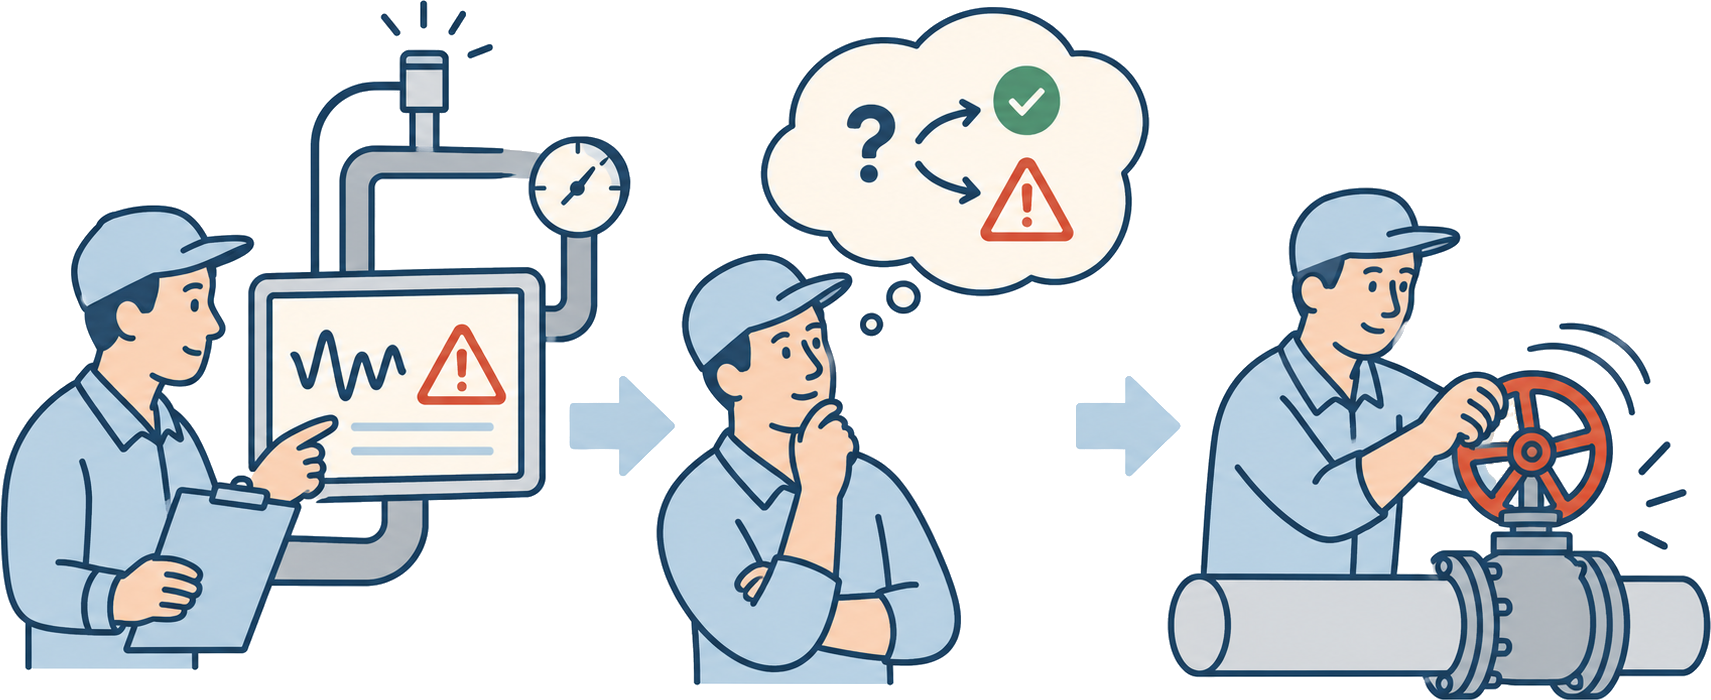
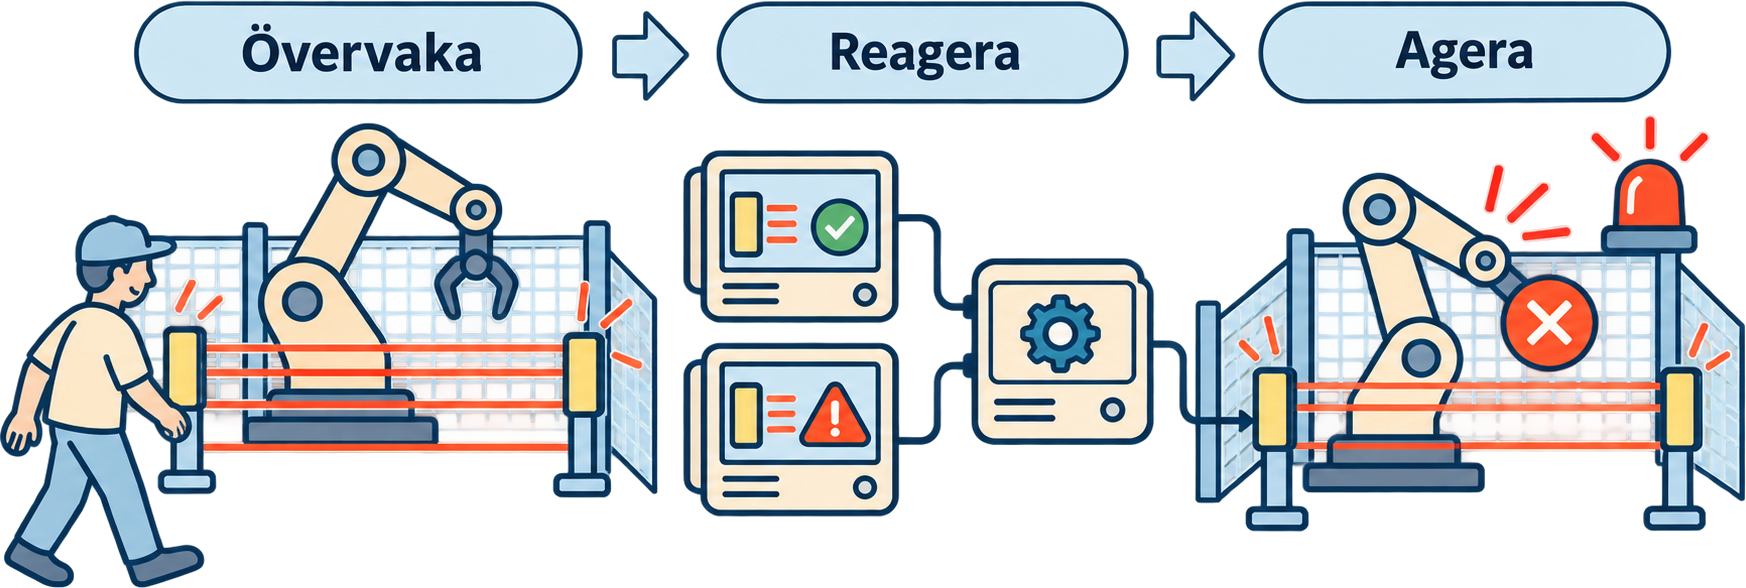
new version of systemsafefty

diff --git a/content/system_safety/common_cause_analysis.md b/content/system_safety/common_cause_analysis.md
@@ -1,65 +1,52 @@
-
 +++
 date = '2026-10-22T20:50:00+02:00'
 draft = true
-title = 'Common Cause Analysis – varför räcker det inte med två datorer?'
+title = 'Common Cause Analysis – behövs två datorer?'
 +++
 
-När man arbetar med säkerhetskritiska system får man ibland höra att man måste ha dubblerad hårdvara. Två separata datorer, och dessutom ska hårdvaran vara utvecklad enligt någon särskild standard.
-Men varför?
+Vi har tidigare pratat om <a href="/system_safety/fault_tree/">felträd</a> och <a href="/system_safety/redundans/">redundans</a>, men hur säkert är egentligen ett system med dubblerade funktioner? Tänk om övervakaren drabbas av samma fel som den som ska övervakas?
 
-Det är en fråga jag har ställt flera gånger genom åren, utan att alltid få något riktigt bra svar.
-Om problemet exempelvis är att två program kan skriva över varandras minne, borde man inte kunna lösa det genom att separera deras minnesområden?
-Man skulle kanske kunna använda olika delar av minnet eller låta hårdvaran skydda programmen från varandra.
-Men svaret har ofta varit detsamma:
+I vår <a href="/system_safety/fault_tree/">felträdsanalys</a> kom vi fram till en säkerhetsarkitektur där vi förbättrade säkerheten genom att lägga till en övervakare.
 
-*Nej, det måste vara två separata datorer.*
+<img src="/images/system_safety/car_system_2.png"
+  alt="Styrsystem med styrning och övervakning"
+  style="float: right; width: 400px; max-width: 100%; margin: 15px 0 15px 20px; border-radius: 8px;">
 
-Fortfarande utan någon riktigt bra förklaring till varför.
+Men tänk om det finns ett konstruktionsfel i en komponent som gör att den under vissa förutsättningar lämnar felaktiga värden?
 
-## Två datorer – men är de verkligen oberoende?
-Tänk dig att vi har ett säkerhetskritiskt system med två datorer som utför samma beräkning.
-Tanken är att om den ena datorn går sönder ska den andra kunna fortsätta fungera.
-Det låter ju bra.
-Men vad händer om båda datorerna kör samma programvara och det finns ett fel i programmet?
-Om samma förutsättningar uppstår kan båda datorerna drabbas av samma fel.
-Eller om båda datorerna läser information från samma givare och givaren börjar lämna felaktiga värden?
-Då hjälper det kanske inte att vi har två datorer. Båda kan fatta samma felaktiga beslut.
-Vi har byggt [redundans](/system_safety/redundans/), men inte nödvändigtvis oberoende.
+Om både styrningen och övervakaren använder samma information kan ett enda fel påverka båda funktionerna.
 
-## Common Cause Analysis
-Det var när jag kom i kontakt med begreppet *Common Cause Analysis*, CCA, som jag började förstå varför det inte alltid räcker med redundans.
-Enkelt uttryckt handlar analysen om att identifiera gemensamma orsaker och beroenden som kan göra att flera delar av ett system fallerar.
-Vi tittar på våra redundanta system och ställer frågor som:
-- Använder de samma programvara?
-- Läser de från samma givare?
-- Delar de strömförsörjning?
-- Kan ett fel i en komponent påverka båda systemen?
-- Finns det yttre händelser som kan slå ut båda samtidigt?
+I felträdet har vi kanske antagit att styrningen och övervakaren fallerar oberoende av varandra. Men om ett enda fel kan påverka båda, blir vår beräknade säkerhet alltför optimistisk.
 
-Det viktiga är att vi inte bara tittar på vad som kan gå fel i varje enskild komponent, utan också vad som kan göra att flera komponenter fallerar tillsammans.
+**Common Cause Analysis**
 
-## Måste vi då alltid ha två separata datorer?
-Nej, inte nödvändigtvis.
-Det beror på vilka fel vi behöver skydda oss mot och vilka säkerhetskrav systemet ska uppfylla.
-Om vi kan visa att två funktioner på samma dator är tillräckligt oberoende för de fel vi behöver hantera, kanske vi inte behöver två fysiska datorer.
-Men om analysen visar att ett fel i exempelvis processorn, minnet eller strömförsörjningen kan slå ut båda funktionerna, då kanske fysisk separation är nödvändig.
-Och även om vi använder två datorer kan vi behöva separera andra saker, exempelvis givare eller strömförsörjning.
-**Det är alltså inte antalet datorer som avgör om lösningen är säker, utan vilka fel arkitekturen faktiskt kan hantera.**
+Det är här Common Cause Analysis (CCA) kommer in, CCA handlar om att identifiera gemensamma felorsaker och beroenden som kan påverka flera funktioner samtidigt.
+Om vi analyserar vårt styrsystem upptäcker vi att styrningen och övervakaren delar flera komponenter:
+- Samma givare i ratten.
+- Samma vinkelgivare vid hjulen.
+- Samma dator och därmed hårdvara och operativsystem.
 
-## Hur säker är tillräckligt säker?
-Mycket inom systemsäkerhet handlar om att kunna visa att de [säkerhetsmekanismer](/system_safety/safety_mechanism/) vi inför verkligen ger det skydd vi förväntar oss.
-Det innebär bland annat att vi måste bedöma sannolikheten för olika fel och vilka konsekvenser de kan få.
-I vissa sammanhang arbetar man med mycket låga sannolikheter, exempelvis 10⁻⁶ eller 10⁻⁹ per timme för vissa typer av farliga fel eller händelser.
-Vilka nivåer som är acceptabla beror på systemet, riskerna och de krav som gäller.
-En Common Cause Analysis hjälper oss att identifiera beroenden som annars kan göra våra beräkningar alltför optimistiska.
-Om vi exempelvis antar att två datorer fallerar oberoende av varandra, men båda kan slås ut av samma fel, då håller inte längre vårt antagande.
+Om exempelvis vinkelgivaren lämnar ett felaktigt värde kan både styrningen och övervakaren använda samma felaktiga information. Då finns risken att övervakaren inte upptäcker felet.
+Vi har alltså en övervakare, men den är inte tillräckligt oberoende för att upptäcka alla fel vi kanske vill skydda oss mot.
+Vad gör vi åt det?
 
-## Analysera istället för att bara följa en regel
-Det är egentligen detta som jag tycker är det intressanta.
-Istället för att kategoriskt säga att ett säkerhetskritiskt system måste ha två separata datorer borde vi börja med att fråga:
-**Vilka fel måste systemet kunna hantera, och hur kan vi visa att vår arkitektur klarar dem?**
-Ibland blir svaret två separata datorer. Ibland krävs ännu mer separation. Och ibland kan vi visa att en enklare lösning är tillräcklig.
+Efter analysen kanske vi kommer fram till att systemet behöver förändras.
+
+Vi skulle exempelvis kunna:
+- Använda en annan typ av givare för övervakningen av rattens vinkel.
+- Montera övervakarens vinkelgivare vid hjulen spegelvänt, så att givarna arbetar i motsatta riktningar.
+- Flytta övervakningen till en egen dator, exempelvis en PLC med annan hårdvara och programvara.
+
+<img src="/images/system_safety/car_system_3.png"
+  alt="Styrsystem med separat övervakning och olika typer av givare"
+  style="float: right; width: 400px; max-width: 100%; margin: 15px 0 15px 20px; border-radius: 8px;">
+På så sätt kan vi minska risken för vissa gemensamma fel. Men även olika givare kan påverkas av samma mekaniska fel eller yttre störningar.
+Men är systemet säkert nu?
+
+Inte nödvändigtvis. Vi behöver fortfarande analysera exempelvis strömförsörjningen och hur ett fel i styrningen faktiskt ska hanteras.
+Och kanske visar analysen att vi inte behöver separera allt. Det beror på vilka fel vi måste kunna hantera och vilka säkerhetskrav som gäller.
+
+<div style="clear: both;"></div>
 
 <div style="border-left: 4px solid #64748b;
             background-color: #f1f5f9;
@@ -68,11 +55,18 @@ Ibland blir svaret två separata datorer. Ibland krävs ännu mer separation. Oc
             border-radius: 6px;
             color: #334155;">
 
-  <strong>Avslutningsvis</strong>
+<strong>Avslutningsvis</strong>
 
-  <p>
-    För mig är det just det som är poängen med säkerhetsanalyser.
-    Att förstå varför vi inför en säkerhetsmekanism, istället för att bara göra som vi alltid har gjort.
-  </p>
+<p>
+Vilka fel måste systemet kunna hantera, och hur kan vi visa att vår <a href="/system_safety/safety_architecture/">säkerhetsarkitektur</a> klarar dem?
+</p>
+
+<p>
+Ibland krävs separata datorer, ibland ännu mer separation och ibland kan en enklare lösning vara tillräcklig.
+</p>
+
+<p>
+För mig handlar säkerhetsanalyser om att förstå varför vi inför en <a href="/system_safety/safety_mechanism/">säkerhetsmekanism</a>, istället för att bara göra som vi alltid har gjort.
+</p>
 
 </div>

diff --git a/content/system_safety/safety_architecture.md b/content/system_safety/safety_architecture.md
@@ -1,36 +1,59 @@
-Vad är en säkerhetsarkitektur?
++++
+date = '2026-10-22T20:50:00+02:00'
+draft = true
+title = 'Vad är en säkerhetsarkitektur?'
++++
 
 Säkerhetsarkitektur var länge ett begrepp som jag inte riktigt fick kläm på. Men nu tror jag att jag har fått en bild av vad det faktiskt handlar om.
+För mig handlar arkitektur om hur något är uppbyggt, vilka delar som ingår och hur de samverkar.
+Ta exempelvis vårt styrsystem för en bil.
 
-Vi har tidigare tittat på säkerhetsmekanismer och två principer för att hantera fel: fail-safe och fail-operational.
+<img src="/images/system_safety/car_system_1.png"
+     alt="Bilens styrsystem med rattgivare, dator, motor och vinkelgivare"
+     style="float: right; width: 300px; max-width: 100%; margin: 15px 0 15px 20px; border-radius: 8px;">
 
-Men hur hänger allt ihop?
+Systemet består av:
 
-En säkerhetsmekanism kan bestå av en eller flera komponenter som tillsammans bidrar till systemets säkerhet.
+- En ratt med givare.
+- En dator som beräknar styrsignalen.
+- En motor som styr hjulen.
+- En vinkelgivare som återkopplar hjulens verkliga läge.
 
-En del mekanismer ser till att systemet hamnar i ett säkert tillstånd när något går fel. Andra gör att systemet kan fortsätta fungera trots fel.
+Detta är delar av systemets tekniska arkitektur. Den beskriver vilka komponenter som finns och hur de samverkar för att styra bilen.
+Men hur säkerställer vi att bilen inte svänger fel?
 
-Och ett system kan mycket väl behöva båda delarna.
+## Från systemarkitektur till säkerhetsarkitektur
 
-Så vad är då en säkerhetsarkitektur?
+Genom <a href="/system_safety/fault_tree/">felträdsanalys</a> har vi identifierat vad som kan gå fel. Med <a href="/system_safety/common_cause_analysis/">Common Cause Analysis</a> har vi undersökt vilka gemensamma fel som kan påverka både styrning och övervakning.
+Utifrån analyserna har vi förändrat arkitekturen.
 
-Som jag ser det är det helheten av de komponenter och mekanismer som bidrar till systemets säkerhet, och hur dessa samverkar.
+<img src="/images/system_safety/car_system_3.png"
+     alt="Bilens styrsystem med separat övervakning och redundanta givare"
+     style="display: block; width: 500px; max-width: 100%; margin: 20px auto; border-radius: 8px;">
 
+Vi har bland annat lagt till en separat övervakare och ytterligare givare för att minska risken att samma fel påverkar både styrningen och övervakningen.
+Övervakningen är ett exempel på en <a href="/system_safety/safety_mechanism/">säkerhetsmekanism</a>.
+Men säkerhetsarkitekturen handlar inte bara om vilka säkerhetsmekanismer vi använder, utan också om hur de är uppbyggda, vilka beroenden de har och hur de samverkar med resten av systemet.
+Vi kan exempelvis använda olika säkerhetsprinciper:
+
+- <a href="/system_safety/fail_safe/">Fail-safe</a> – systemet går till ett säkert tillstånd när något går fel.
+- <a href="/system_safety/fail_operational/">Fail-operational</a> – systemet kan fortsätta utföra nödvändiga funktioner trots vissa fel.
+
+Vilken lösning vi väljer beror på systemets säkerhetskrav.
+
+## Så vad är en säkerhetsarkitektur?
+
+Som jag ser det är säkerhetsarkitekturen **hur systemet är uppbyggt för att uppfylla sina säkerhetskrav**.
 Det kan handla om att:
 
-Förhindra att farliga situationer uppstår.
+- Förhindra att farliga situationer uppstår.
+- Upptäcka fel innan de leder till något farligt.
+- Försätta systemet i ett säkert tillstånd när något går fel.
+- Låta systemet fortsätta fungera trots att en komponent har gått sönder.
 
-Upptäcka fel innan de leder till något farligt.
+Det intressanta är att säkerhetsarkitekturen inte i första hand beskriver vad systemet ska göra, utan **hur systemet ska kunna göra det på ett säkert sätt**.
 
-Försätta systemet i ett säkert tillstånd när något går fel.
-
-Låta systemet fortsätta fungera trots att en komponent har gått sönder.
-
-Det intressanta är att säkerhetsarkitekturen inte i första hand beskriver vad systemet ska göra, utan hur systemet ska kunna göra det på ett säkert sätt.
-
-
-
-
+<div style="clear: both;"></div>
 
 <div style="border-left: 4px solid #64748b;
             background-color: #f1f5f9;
@@ -39,12 +62,12 @@ Det intressanta är att säkerhetsarkitekturen inte i första hand beskriver vad
             border-radius: 6px;
             color: #334155;">
 
-  <strong>Avslutningsvis</strong>
+<strong>Avslutningsvis</strong>
 
-  <p>
-Är säkerhetsarkitekturen en separat arkitektur, eller är den egentligen bara ett sätt att betrakta systemarkitekturen utifrån ett säkerhetsperspektiv?
+<p>
+Är säkerhetsarkitekturen en separat arkitektur, eller är den egentligen bara ett sätt att betrakta systemarkitekturen ur ett säkerhetsperspektiv?
 Jag lutar åt det senare.
 Säkerhetsarkitekturen kan beskrivas separat, men den är inte frikopplad från systemets övriga arkitektur.
-  </p>
+</p>
 
 </div>

diff --git a/content/system_safety/fault_tree.md b/content/system_safety/fault_tree.md
@@ -1,0 +1,57 @@
++++
+date = '2026-10-27T10:00:00+01:00'
+draft = true
+title = 'Felträd - ett sätt att analysera fel'
++++
+
+När man arbetar med systemsäkerhet behöver man kunna förstå vad som kan gå fel, men också hur olika fel kan påverka varandra.
+
+En av flera metoder för detta är **Fault Tree Analysis (FTA)**.
+Hur ska man tänka med felträd, ju man ska tänka **vad kan orsaka en olycka?**
+
+Ett felträd börjar med en oönskad händelse, exempelvis att en bil svänger utan att föraren har begärt det.
+<img src="/images/system_safety/car_system_1.png"
+  alt="Styrsystem med styrning och övervakning i samma dator"
+  style="float: right; width: 400px; max-width: 100%; margin: 15px 0 15px 20px; border-radius: 8px;">
+Sedan arbetar vi oss bakåt och försöker identifiera vad som skulle kunna orsaka händelsen.
+Det kan exempelvis vara att:
+<img src="/images/system_safety/fta_1.png"
+  alt="Styrsystem med styrning och övervakning i samma dator"
+  style="float: right; width: 300px; max-width: 100%; margin: 15px 0 15px 20px; border-radius: 8px;">
+- Fel på givaren i ratten.
+- Styrningen beräknar fel vinkel.
+- Vinkelgivaren är fel.
+
+
+Med hjälp av logiska grindar, framför allt **AND** och **OR**, beskriver vi vilka fel som var för sig eller tillsammans kan orsaka den oönskade händelsen.
+En OR-grind innebär att det räcker med ett av felen, medan en AND-grind innebär att flera fel måste inträffa tillsammans.
+Genom att tillföra sannolikheter för de olika felen kan vi också beräkna sannolikheten för den oönskade händelsen, förutsatt att vi har en korrekt modell och hanterar beroenden mellan felen.
+
+<img src="/images/system_safety/car_system_2.png"
+  alt="Styrsystem med styrning och övervakning i samma dator"
+  style="float: right; width: 400px; max-width: 100%; margin: 15px 0 15px 20px; border-radius: 8px;">
+Utifrån felträdet ser man svagheterna i systemet, man ser att det räcker att en del i systemet fallerar så kan händelsen inträffa. systemet bygg på med redundans, ett övervakningsystem som ska säkerställa att föraen blir varnad och kan kontrollerat bromas om något händer.
+I det nya felträdet ser man att det tillkommit en **AND** grind och det visar att båda system ska fallera i den nya säkerhetsarkitekturen.
+
+<img src="/images/system_safety/fta_2.png"
+  alt="Styrsystem med styrning och övervakning i samma dator"
+  style="float: center; width: 600px; max-width: 100%; margin: 15px 0 15px 20px; border-radius: 8px;">
+
+
+
+
+<div style="border-left: 4px solid #64748b;
+            background-color: #f1f5f9;
+            padding: 16px 20px;
+            margin: 30px 0;
+            border-radius: 6px;
+            color: #334155;">
+<strong>Avslutningsvis</strong>
+<p>
+Det intressanta med dessa analyser är att vi inte bara behöver gissa oss till om en konstruktion är säker.
+Vi kan bryta ner systemet, identifiera hur fel kan uppstå och analysera vilka konsekvenser de får.
+
+<strong>Men är systemet riktigt säkert ändå?</strong> 
+det reder vi ut med hjälp av <a href="/system_safety/common_cause_analysis/">Common Cause Analysis</a>.
+</p>
+</div>

diff --git a/content/system_safety/_index.md b/content/system_safety/_index.md
@@ -1,0 +1,21 @@
++++
+date = '2026-10-22T20:50:00+02:00'
+draft = true
+title = 'Systemsäkerhet'
++++
+
+# Systemsäkerhet – hur bygger vi säkra system?
+
+Systemsäkerhet kan ibland kännas som en djungel av begrepp, standarder och metoder. Men vad handlar det egentligen om?
+
+I grunden handlar det om att förstå vad som kan gå fel i ett system, vilka konsekvenser det kan få och hur vi kan förhindra att någon kommer till skada.
+
+Här har jag samlat korta artiklar där jag försöker förklara olika begrepp och principer inom systemsäkerhet på ett enkelt sätt.
+
+Du kan bland annat läsa om [säkerhetsarkitektur](/system_safety/safety_architecture/), [säkerhetsmekanismer](/system_safety/safety_mechanism/), [fail-safe](/system_safety/fail_safe/), [fail-operational](/system_safety/fail_operational/) och [redundans](/system_safety/redundancy/).
+
+**Tanken är inte att gå på djupet i varje ämne**, utan att ge en grundläggande förståelse. Tillräckligt för att kunna se hur saker hänger ihop och sedan själv söka vidare för den som vill fördjupa sig.
+
+Det här är också ett sätt för mig att samla och dela med mig av det jag har lärt mig genom åren.
+
+Och vem vet, kanske lär jag mig något nytt på vägen. 😃

diff --git a/content/system_safety/fail_safe.md b/content/system_safety/fail_safe.md
@@ -4,7 +4,7 @@ draft = true
 title = 'Fail-safe - när något går fel ska det inte bli farligt'
 +++
 
-Vi har tidigare beskrivit hur en säkerhetsmekanism kan upptäcka och hantera fel.
+Vi har tidigare beskrivit hur en <a href="/system_safety/safety_mechanism/">säkerhetsmekanism</a> kan upptäcka och hantera fel.
 Men vad ska systemet göra när något går fel?
 
 En möjlighet är att försätta systemet i ett säkert tillstånd. Det är grundtanken med fail-safe.
@@ -37,7 +37,7 @@ Fail-safe handlar alltså om att systemet ska hamna i ett säkert tillstånd nä
 I vårt exempel innebär det att stoppa maskinens farliga rörelser.
 Men tänk om det istället är farligt att stanna?
 Då behöver vi en annan lösning.
-Läs vidare: Fail-operational – när det inte är säkert att stanna.
+Läs vidare: <a href="/system_safety/fail_operational/">Fail-operational – när det inte är säkert att stanna.</a>
   </p>
 
 </div>

diff --git a/content/system_safety/safety_mechanism.md b/content/system_safety/safety_mechanism.md
@@ -14,6 +14,9 @@ Tänk dig ett system där något kan gå fel och leda till en farlig situation.
 Vi vill kunna upptäcka att något är på väg att hända och göra något åt det innan någon skadas.
 
 En säkerhetsmekanism kan då bestå av tre delar:
+- **Övervaka** – samla in information och upptäcka fel eller farliga tillstånd.
+- **Reagera** – avgöra om något behöver göras och vilken åtgärd som ska vidtas.
+- **Agera** – genomföra åtgärden så att systemet förblir säkert.
 <img src="/images/system_safety/safety_mechanism.png"
      alt="safety mechanism">
 

diff --git a/content/system_safety/fail_operational.md b/content/system_safety/fail_operational.md
@@ -38,7 +38,7 @@ Vi har alltså både stoppat vissa funktioner och låtit andra fortsätta.
 
   <p>
 Fail-operational handlar inte om att allt måste fortsätta fungera, utan om att de funktioner som måste upprätthållas ska kunna fortsätta trots fel.
-Det kräver ofta redundans, alltså att alternativa komponenter eller system kan ta över när något går sönder.
+Det kräver ofta <a href="/system_safety/redundans/">redundans</a>, alltså att alternativa komponenter eller system kan ta över när något går sönder.
 
   </p>
 
